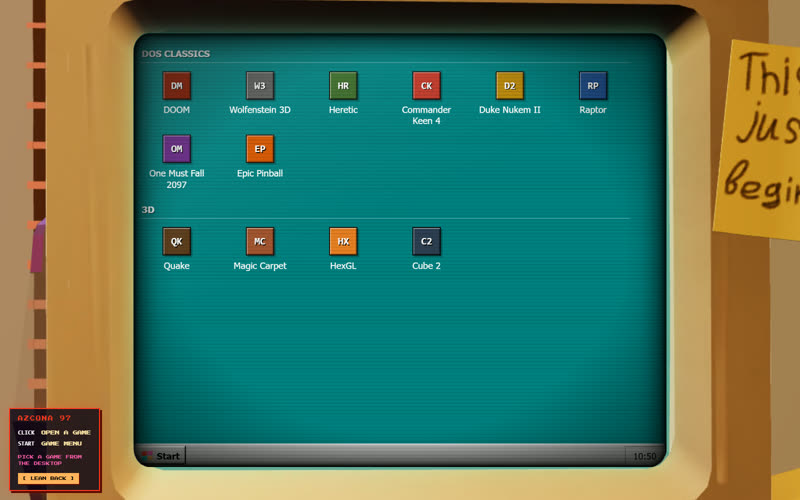
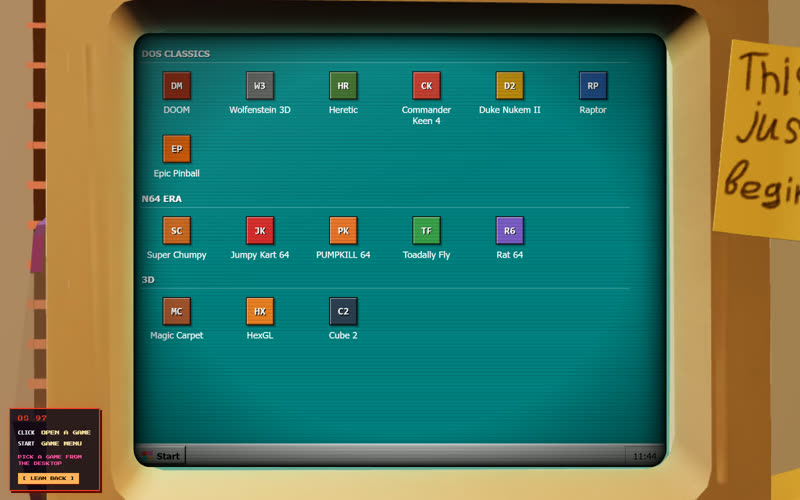
README: 15 games, refreshed desktop thumbnail

diff --git a/README.md b/README.md
@@ -9,7 +9,7 @@
 ### 🕹 bored? play here
 
 [![Play retro games](assets/retro-desktop.jpg)](https://andresazcona.github.io/)
-<br><sub>RETRO.EXE — 10 retro games on a late-night desk, click to play</sub>
+<br><sub>RETRO.EXE — 15 retro games on a late-night desk, click to play</sub>
 
 </div>
 
